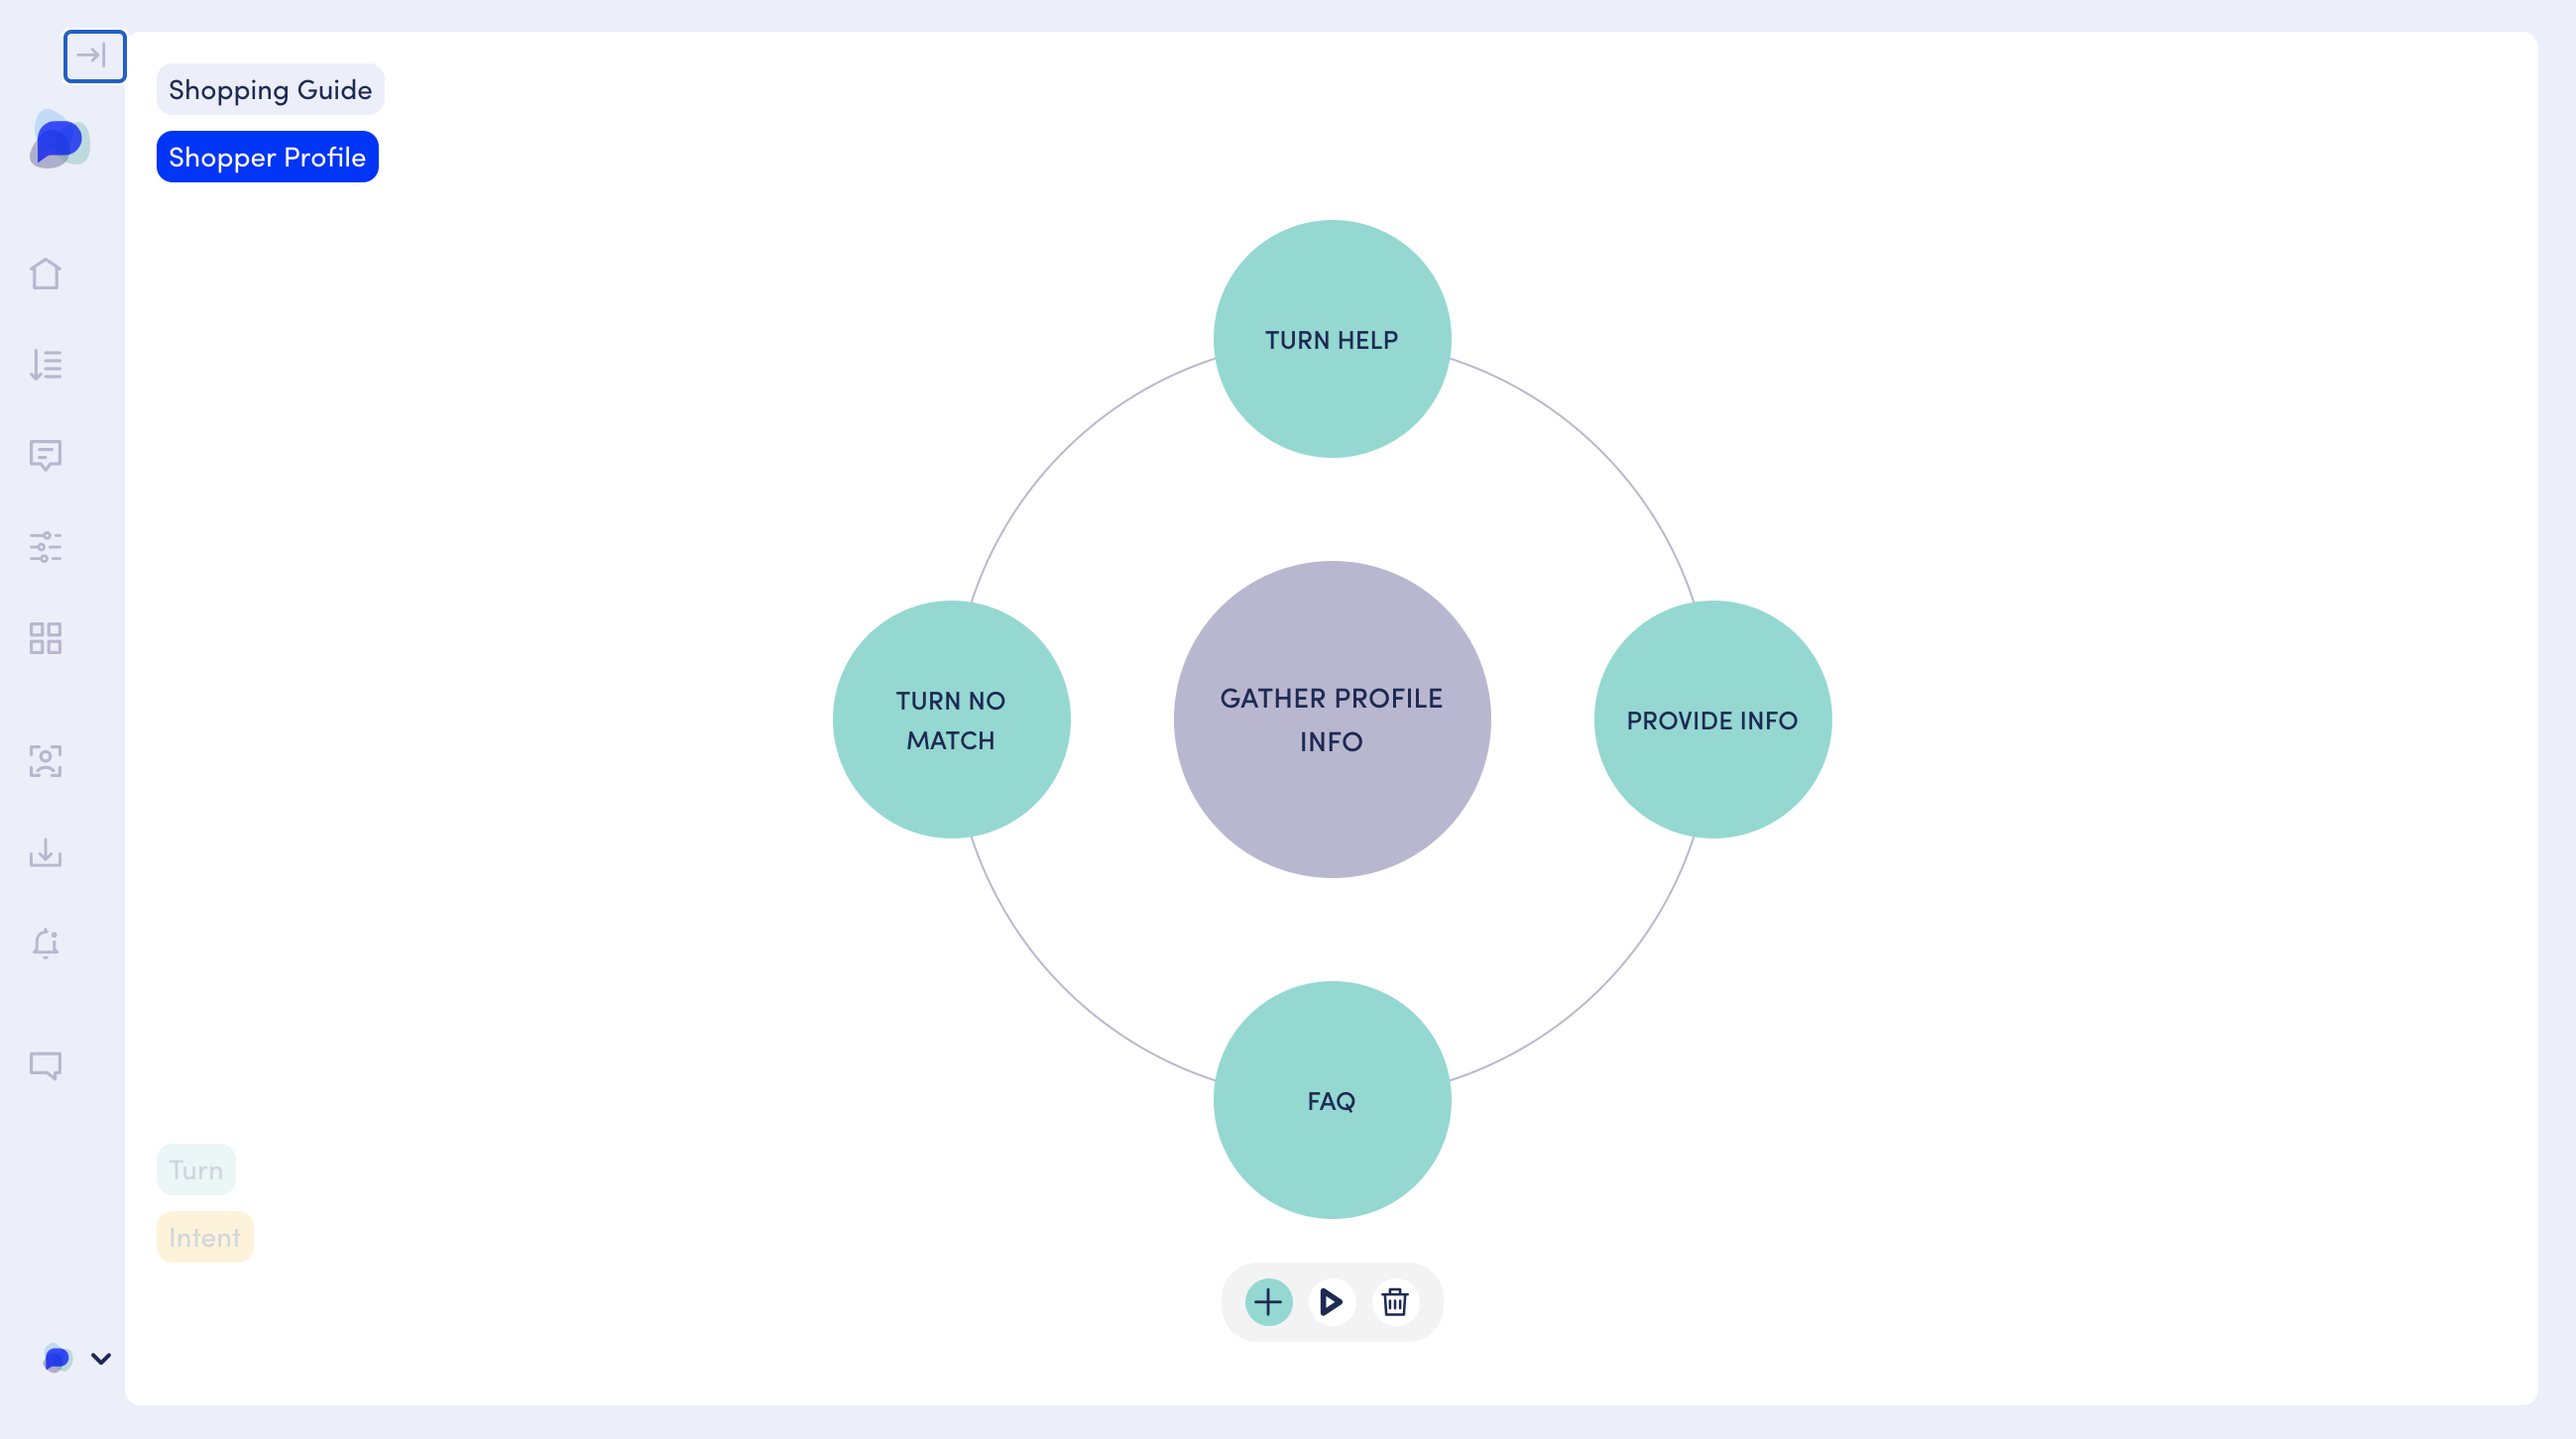
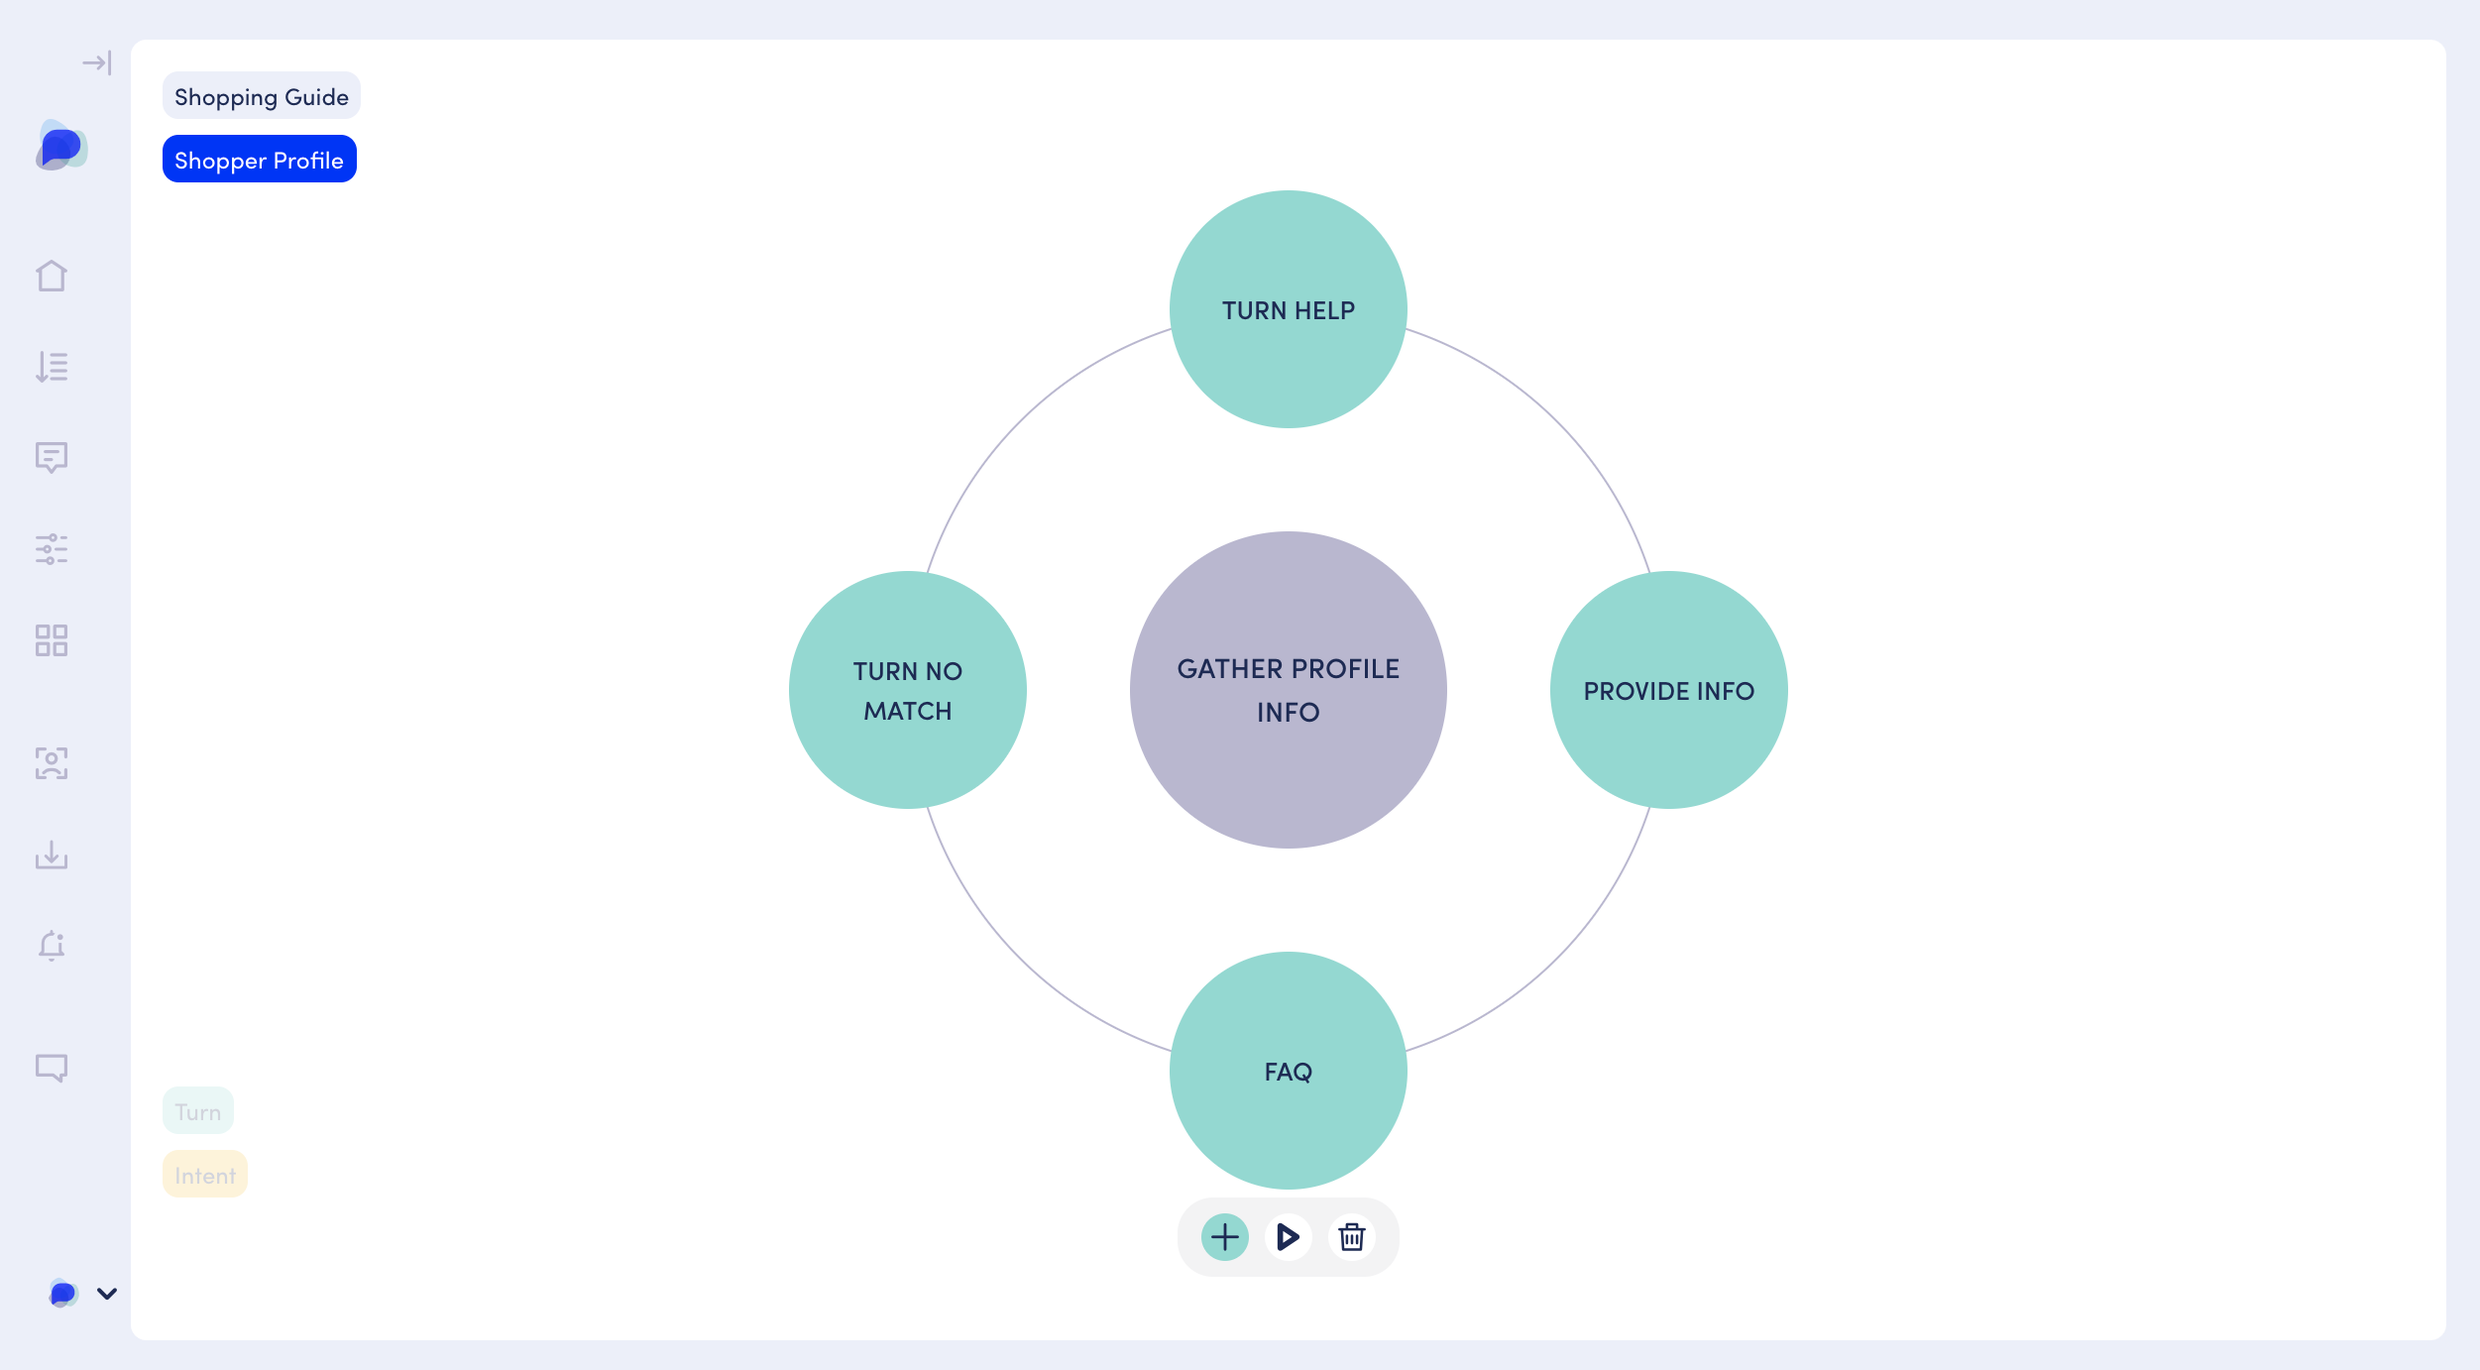
GitBook: [1.x] 40 pages and 13 assets modified

diff --git a/example-flows/the-contextual-faq-pattern.md b/example-flows/the-contextual-faq-pattern.md
@@ -1,4 +1,10 @@
-# The Contextual FAQ Pattern
+---
+description: >-
+  A pattern to help us deal with FAQ questions while taking the user through a
+  guided interaction.
+---
+
+# Contextual FAQ Pattern
 
 The Contextual FAQ Pattern deals with the  behavior of supporting FAQ questions within a specific context while also supporting follow up actions and attempting to guide the user through a specific course.
 
@@ -8,7 +14,7 @@ The Contextual FAQ Pattern helps us deal with this.
 
 Let's walk through an example to demonstrate the process. Imagine you have a scenario with conversations as illustrated below.
 
-![A shopping guide scenario](../.gitbook/assets/image%20%28104%29.png)
+![A shopping guide scenario](../.gitbook/assets/image%20%28108%29.png)
 
 The expectation is that following a _Welcome_ conversation we will lead the user to a _Collect Preferences_ conversation where we will ask a few questions about their preferences in order to be able to provide recommendations. 
 
@@ -18,7 +24,7 @@ While we are in the Collect Preferences conversation we anticipate that the user
 
 The Welcome Conversation has just one Scene. For the purposes of this example we have three turns setup. 
 
-![The Welcome Scene Turns](../.gitbook/assets/image%20%2898%29.png)
+![The Welcome Scene Turns](../.gitbook/assets/image%20%28101%29.png)
 
 The Welcome Turn is a _STARTING_ turn and its job is to welcome the user to the conversation. 
 
@@ -26,7 +32,7 @@ Following that we anticipate that the user will either have some questions to as
 
 The FAQ Turn is an Open turn with a simple request  and response pair.
 
-![Welcome Scene FAQ Turn](../.gitbook/assets/image%20%28102%29.png)
+![Welcome Scene FAQ Turn](../.gitbook/assets/image%20%28106%29.png)
 
 The Continue Trigger turn, instead, is an Open Turn with just a Request intent that transitions the user to the Shopper Profile Conversation. 
 
@@ -36,7 +42,7 @@ Below is a sample dialog, using the Conversation Simulator, that we anticipate w
 
 Now, let's have a look at the Shopper Profile Conversation. 
 
-![Shopper Profile Scene](../.gitbook/assets/image%20%28101%29.png)
+![Shopper Profile Scene](../.gitbook/assets/image%20%28105%29.png)
 
 Keep in mind that we direct the user to the "top" of this conversation, so what the conversation engine will be doing is to look for potential starting scenes to start the conversation with. We have two scenes. The Shopper Profile Explanation Scene and the Gather Profile Info Scene. 
 
@@ -44,15 +50,15 @@ The _Shopper Profile Explanation_ Scene is our _STARTING_ scene, and it has just
 
 Here is what the Gather Profile Info scene looks like:
 
-![](../.gitbook/assets/image%20%2899%29.png)
+![](../.gitbook/assets/image%20%28102%29.png)
 
 There are four turns:
 
 In the _Provide Info_ Turn the user is providing relevant information and the bot is either asking for further information or confirming that it has all the information it needs. This choice which will be managed by conditional checks on whether all the information is there or not. 
 
-![Provide Info Turn](../.gitbook/assets/image%20%2897%29.png)
+![Provide Info Turn](../.gitbook/assets/image%20%2898%29.png)
 
-![Conditional Checks](../.gitbook/assets/image%20%28105%29.png)
+![Conditional Checks](../.gitbook/assets/image%20%28109%29.png)
 
 The _FAQ Turn_ handles the question and answer capabilities. 
 
@@ -62,7 +68,7 @@ The Turn No Match depends on defining the intent as that \([see here](../turns-a
 
 With all these pieces in places we can start support flows as illustrated below:
 
-![](../.gitbook/assets/image%20%28100%29.png)
+![](../.gitbook/assets/image%20%28103%29.png)
 
 The user can keep asking questions, requesting helping or not matching anything the bot can handle. The user can ask FAQ questions as a response to the bot asking for specific information such as "how often do you run". Because of the way the Conversation Engine works with us to support the conversational flow and reason about context we can keep bringing the user back to relevant questions and moving the flow forward. 
 

diff --git a/example-flows/contextual-help.md b/example-flows/contextual-help.md
@@ -1,0 +1,36 @@
+---
+description: >-
+  A pattern describing how you can provide contextual help to users while
+  minimising the need for intent training
+---
+
+# Contextual Help Pattern
+
+One of the challenges with conversations is providing the most contextual responses possible given the overall state of the conversation. This is particularly relevant when the user asks generic questions such as a request for help. 
+
+OpenDialog provides an efficient way of dealing with this through a single help intent that can be trained once but reused multiple times contextually. 
+
+Consider the following scene:
+
+![A scene with contextual help](../.gitbook/assets/image%20%2899%29.png)
+
+Here we have a scene where we will be gathering profile info from the user. We anticipate that the user may ask for help so we create an _OPEN_ help turn. An open turn is always considered so if the user says anything like: "help", "I require assistance", "what am I supposed to do", etc we expect the Help Turn to match. The response within the Help turn can be highly contextualised since we know that we are in the  Gather Profile Info scene.
+
+The Turn Help will have two intents:
+
+![](../.gitbook/assets/image%20%28100%29.png)
+
+Here is what the configuration for the "request help" intent from the user will look like. 
+
+![Request Help intent settings](../.gitbook/assets/image%20%28104%29.png)
+
+The response intent from the bot can now provide help relevant to the context.
+
+![Provide help intent settings](../.gitbook/assets/image%20%2897%29.png)
+
+From an NLU perspective what is a significant advantage is that we can reuse the training for the request help Intent across multiple conversations \(even multiple scenarios\). At the same time we can contextualise our response based on needs.
+
+
+
+ 
+

diff --git a/SUMMARY.md b/SUMMARY.md
@@ -38,7 +38,8 @@
 ## Conversational Patterns <a id="example-flows"></a>
 
 * [Introduction](example-flows/introduction.md)
-* [The Contextual FAQ Pattern](example-flows/the-contextual-faq-pattern.md)
+* [Contextual Help Pattern](example-flows/contextual-help.md)
+* [Contextual FAQ Pattern](example-flows/the-contextual-faq-pattern.md)
 
 ## Developing With OpenDialog
 
